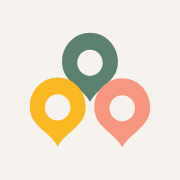
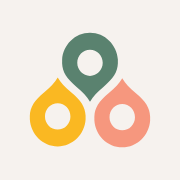
לוגו: שתי הטיפות התחתונות מופנות למעלה, כמו בלוגו הרשמי
בסמל של אשכולות הטיפה העליונה (מרווה) מופנית למטה, והצהובה והאלמוג הפוכות — החוד שלהן למעלה. אצלנו שלושתן צוירו עם החוד למטה.

- components/orientation/eshkolot-logo.tsx: נתיב הפוך (DROP_PATH) לשתי הטיפות התחתונות, באותן תיבות בדיוק; הסמל לבדו כרכיב EshkolotMark. נבדק מול חלקי הלוגו הרשמיים: התיבות חופפות עד פיקסל.
- עמוד הכניסה: האיור הגדול ב"צד המותג" הוא עכשיו הסמל עצמו, במקום שלוש נעצים שכולן למטה.
- אייקוני המערכת (icon.svg, icon-192, icon-512, apple-icon) חוללו מחדש מהסמל המתוקן.

הנעץ הבודד שמסמן "היום" / "עכשיו" במסכים לא השתנה.

Claude-Session: https://claude.ai/code/session_01SucdoyZfMd2ZuPdFmQDaKZ

Changed region(s): [[0.1389, 0.4167, 0.8333, 0.8333]]

diff --git a/components/orientation/eshkolot-logo.tsx b/components/orientation/eshkolot-logo.tsx
@@ -1,5 +1,6 @@
 // לוגו אשכולות — שחזור וקטורי מדויק של הלוגו מאתר neveoranim.co.il
 // שלוש טיפות-נעץ (מרווה, צהוב, אלמוג) + המילה "אשכולות" + "רשת בתי אבות אחרת"
+// בסמל: הטיפה העליונה (מרווה) מופנית למטה, ושתי התחתונות (צהוב, אלמוג) הפוכות — החוד שלהן למעלה
 
 import type { CSSProperties } from "react";
 
@@ -16,6 +17,10 @@ export const BRAND = {
 export const PIN_PATH =
   "M29.36 16.09C29.12 20.75 27.03 24.09 21.73 28.49C18.45 31.21 16.33 33.52 14.85 36.01C14.79 36.1 14.74 36.2 14.68 36.29C14.63 36.2 14.57 36.1 14.52 36.01C13.04 33.53 10.91 31.21 7.63 28.49C2.33 24.09 0.24 20.75 0 16.09C0.01 15.78 0.02 15.46 0.02 15.15C0.02 14.85 0.02 14.56 0.01 14.27C0.45 6.32 6.86 0 14.68 0H14.7C22.51 0 28.92 6.32 29.37 14.27C29.36 14.56 29.35 14.85 29.35 15.15C29.35 15.46 29.36 15.78 29.37 16.09M21.38 15.8C21.38 11.98 18.38 8.89 14.68 8.89C10.98 8.89 7.98 11.98 7.98 15.8C7.98 19.61 10.98 22.7 14.68 22.7C18.38 22.7 21.38 19.61 21.38 15.8Z";
 
+// אותה צורה בדיוק, הפוכה אנכית בתוך אותה תיבה (y ← 36.2949 − y): החוד למעלה. לשתי הטיפות התחתונות של הסמל
+const DROP_PATH =
+  "M29.36 20.2049C29.12 15.5449 27.03 12.2049 21.73 7.8049C18.45 5.0849 16.33 2.7749 14.85 0.2849C14.79 0.1949 14.74 0.0949 14.68 0.0049C14.63 0.0949 14.57 0.1949 14.52 0.2849C13.04 2.7649 10.91 5.0849 7.63 7.8049C2.33 12.2049 0.24 15.5449 0 20.2049C0.01 20.5149 0.02 20.8349 0.02 21.1449C0.02 21.4449 0.02 21.7349 0.01 22.0249C0.45 29.9749 6.86 36.2949 14.68 36.2949H14.7C22.51 36.2949 28.92 29.9749 29.37 22.0249C29.36 21.7349 29.35 21.4449 29.35 21.1449C29.35 20.8349 29.36 20.5149 29.37 20.2049M21.38 20.4949C21.38 24.3149 18.38 27.4049 14.68 27.4049C10.98 27.4049 7.98 24.3149 7.98 20.4949C7.98 16.6849 10.98 13.5949 14.68 13.5949C18.38 13.5949 21.38 16.6849 21.38 20.4949Z";
+
 const WORDMARK = [
   "M2.43 5.59V31.21H0V36.12H8.42V10.53H13.08C13.14 10.53 13.21 10.59 13.21 10.66V36.12H19.16V8.82C19.16 7.17 18.04 5.59 16.28 5.59H2.43Z",
   "M28.57 5.59H22.73V36.12H28.57V5.59Z",
@@ -30,6 +35,23 @@ const TAGLINE = [
   "M118.09 0V1.63L121.52 1.65C121.65 1.65 121.75 1.76 121.75 1.91V12.3H123.71V1.37C123.71 0.64 123.26 0.01 122.5 0.01H118.08L118.09 0ZM107.33 12.3H114.16C115.87 12.3 116.68 10.98 116.68 9.48V0H114.77V9.63C114.77 10.16 114.39 10.65 113.83 10.65H112.91V0H111.07V10.65H109.24V0H107.33V12.3ZM98.43 0V10.66H97.32V12.3H100.4V1.65H102.59C102.72 1.65 102.82 1.76 102.82 1.91V12.3H104.78V1.37C104.78 0.64 104.33 0.01 103.57 0.01H98.42L98.43 0ZM91.73 12.3V10.66H90.81V1.36C90.81 0.63 90.36 0 89.6 0H85.68V1.65H88.62C88.76 1.65 88.85 1.76 88.85 1.91V10.66H85.67V12.3H91.73ZM77.9 0V10.66H76.79V12.3H79.87V1.65H82.06C82.2 1.65 82.29 1.76 82.29 1.91V12.3H84.25V1.37C84.25 0.64 83.8 0.01 83.04 0.01H77.89L77.9 0Z",
   "M73.65 6.4H75.61V0H73.65V6.4ZM67.08 12.3L64.89 7L65.46 6.73C66.53 6.21 66.87 5.37 66.87 4.27V0.01H64.97V4.85C64.97 5.31 64.81 5.53 64.52 5.73L64.41 5.81L62.02 0.02H59.92L61.64 4.18L61.28 4.34C60.23 4.85 59.89 5.7 59.89 6.79V12.31H61.78V6.35C61.78 5.91 61.92 5.69 62.19 5.5L65.01 12.31H67.08L67.08 12.3ZM58.15 12.3V10.66H57.23V1.36C57.23 0.63 56.78 0 56.02 0H52.1V1.65H55.04C55.18 1.65 55.27 1.76 55.27 1.91V10.66H52.09V12.3H58.15ZM48.7 12.3H50.62V0H48.7V12.3ZM40.19 0V10.66H39.08V12.3H42.16V1.65H44.36C44.49 1.65 44.58 1.76 44.58 1.91V12.3H46.54V1.37C46.54 0.64 46.09 0.01 45.33 0.01H40.19L40.19 0ZM33.1 12.3L30.92 7L31.49 6.73C32.55 6.21 32.89 5.37 32.89 4.27V0.01H31V4.85C31 5.31 30.84 5.53 30.55 5.73L30.43 5.81L28.04 0.02H25.94L27.66 4.18L27.3 4.34C26.24 4.85 25.9 5.7 25.9 6.79V12.31H27.79V6.35C27.79 5.91 27.94 5.69 28.21 5.5L31.03 12.31H33.1V12.3ZM17.05 0V12.3H19.03V1.65H21.26C21.39 1.65 21.49 1.76 21.49 1.91V12.3H23.45V1.37C23.45 0.64 23 0.01 22.24 0.01H17.04L17.05 0ZM8.88 0V1.63L12.31 1.65C12.45 1.65 12.54 1.76 12.54 1.91V12.3H14.5V1.37C14.5 0.64 14.05 0.01 13.29 0.01H8.88L8.88 0ZM1.11 0V10.66H0V12.3H3.08V1.65H5.28C5.41 1.65 5.5 1.76 5.5 1.91V12.3H7.46V1.37C7.46 0.64 7.01 0.01 6.25 0.01H1.11V0Z",
 ];
+
+/** שלוש הטיפות של הסמל, במקומן בתוך הלוגו המלא: העליונה למטה, שתי התחתונות למעלה */
+function MarkShapes() {
+  return (
+    <>
+      <svg x="149.646" y="0.738" width="29.38" height="36.295" viewBox="0 0 29.3731 36.2949">
+        <path d={PIN_PATH} fill={BRAND.sage} />
+      </svg>
+      <svg x="166.62" y="24.705" width="29.38" height="36.295" viewBox="0 0 29.3731 36.2949">
+        <path d={DROP_PATH} fill={BRAND.coral} />
+      </svg>
+      <svg x="132.653" y="24.272" width="29.38" height="36.295" viewBox="0 0 29.3731 36.2949">
+        <path d={DROP_PATH} fill={BRAND.sun} />
+      </svg>
+    </>
+  );
+}
 
 /** הלוגו המלא של אשכולות (viewBox 196×61) */
 export function EshkolotLogo({ className, style }: { className?: string; style?: CSSProperties }) {
@@ -48,15 +70,23 @@ export function EshkolotLogo({ className, style }: { className?: string; style?:
       <svg x="0" y="45.341" width="123.715" height="12.31" viewBox="0 0 123.707 12.309" fill={BRAND.ink}>
         {TAGLINE.map((d, i) => <path key={i} d={d} />)}
       </svg>
-      <svg x="149.646" y="0.738" width="29.38" height="36.295" viewBox="0 0 29.3731 36.2949">
-        <path d={PIN_PATH} fill={BRAND.sage} />
-      </svg>
-      <svg x="166.62" y="24.705" width="29.38" height="36.295" viewBox="0 0 29.3731 36.2949">
-        <path d={PIN_PATH} fill={BRAND.coral} />
-      </svg>
-      <svg x="132.653" y="24.272" width="29.38" height="36.295" viewBox="0 0 29.3731 36.2949">
-        <path d={PIN_PATH} fill={BRAND.sun} />
-      </svg>
+      <MarkShapes />
+    </svg>
+  );
+}
+
+/** הסמל לבדו — שלוש הטיפות בלי הכיתוב (viewBox לפי המקום שלהן בלוגו המלא) */
+export function EshkolotMark({ className, style }: { className?: string; style?: CSSProperties }) {
+  return (
+    <svg
+      className={className}
+      style={style}
+      xmlns="http://www.w3.org/2000/svg"
+      viewBox="132.653 0.738 63.347 60.262"
+      aria-hidden="true"
+      focusable="false"
+    >
+      <MarkShapes />
     </svg>
   );
 }

diff --git a/app/auth/login/page.tsx b/app/auth/login/page.tsx
@@ -3,7 +3,7 @@
 import { useState, Suspense } from 'react'
 import { useRouter, useSearchParams } from 'next/navigation'
 import { createClient } from '@/lib/supabase/client'
-import { EshkolotLogo, Pin, BRAND } from '@/components/orientation/eshkolot-logo'
+import { EshkolotLogo, EshkolotMark } from '@/components/orientation/eshkolot-logo'
 
 const inputCls =
   'h-12 w-full rounded-xl border border-[#3F2F2D]/15 bg-white px-4 text-base text-[#3F2F2D] outline-none placeholder:text-[#3F2F2D]/40 focus:border-[#5A826F] focus:ring-2 focus:ring-[#5A826F]/25'
@@ -77,9 +77,8 @@ function LoginForm() {
 
       {/* צד מותג */}
       <div className="relative hidden overflow-hidden bg-[#E3ECE7] md:block" aria-hidden="true">
-        <Pin color={BRAND.sage} className="absolute right-[18%] top-[14%] w-[34%]" />
-        <Pin color={BRAND.sun} className="absolute right-[8%] top-[44%] w-[26%]" />
-        <Pin color={BRAND.coral} className="absolute right-[40%] top-[50%] w-[24%]" />
+        {/* הסמל עצמו, בגדול — בדיוק כמו בלוגו (העליונה למטה, שתי התחתונות למעלה) */}
+        <EshkolotMark className="absolute right-[15%] top-[10%] h-[58%] w-[70%]" />
         <p className="absolute bottom-10 right-10 left-10 text-2xl font-bold leading-snug text-[#375044]">
           מה שקורה היום במחלקה,<br />על המסך, בגדול וברור.
         </p>
